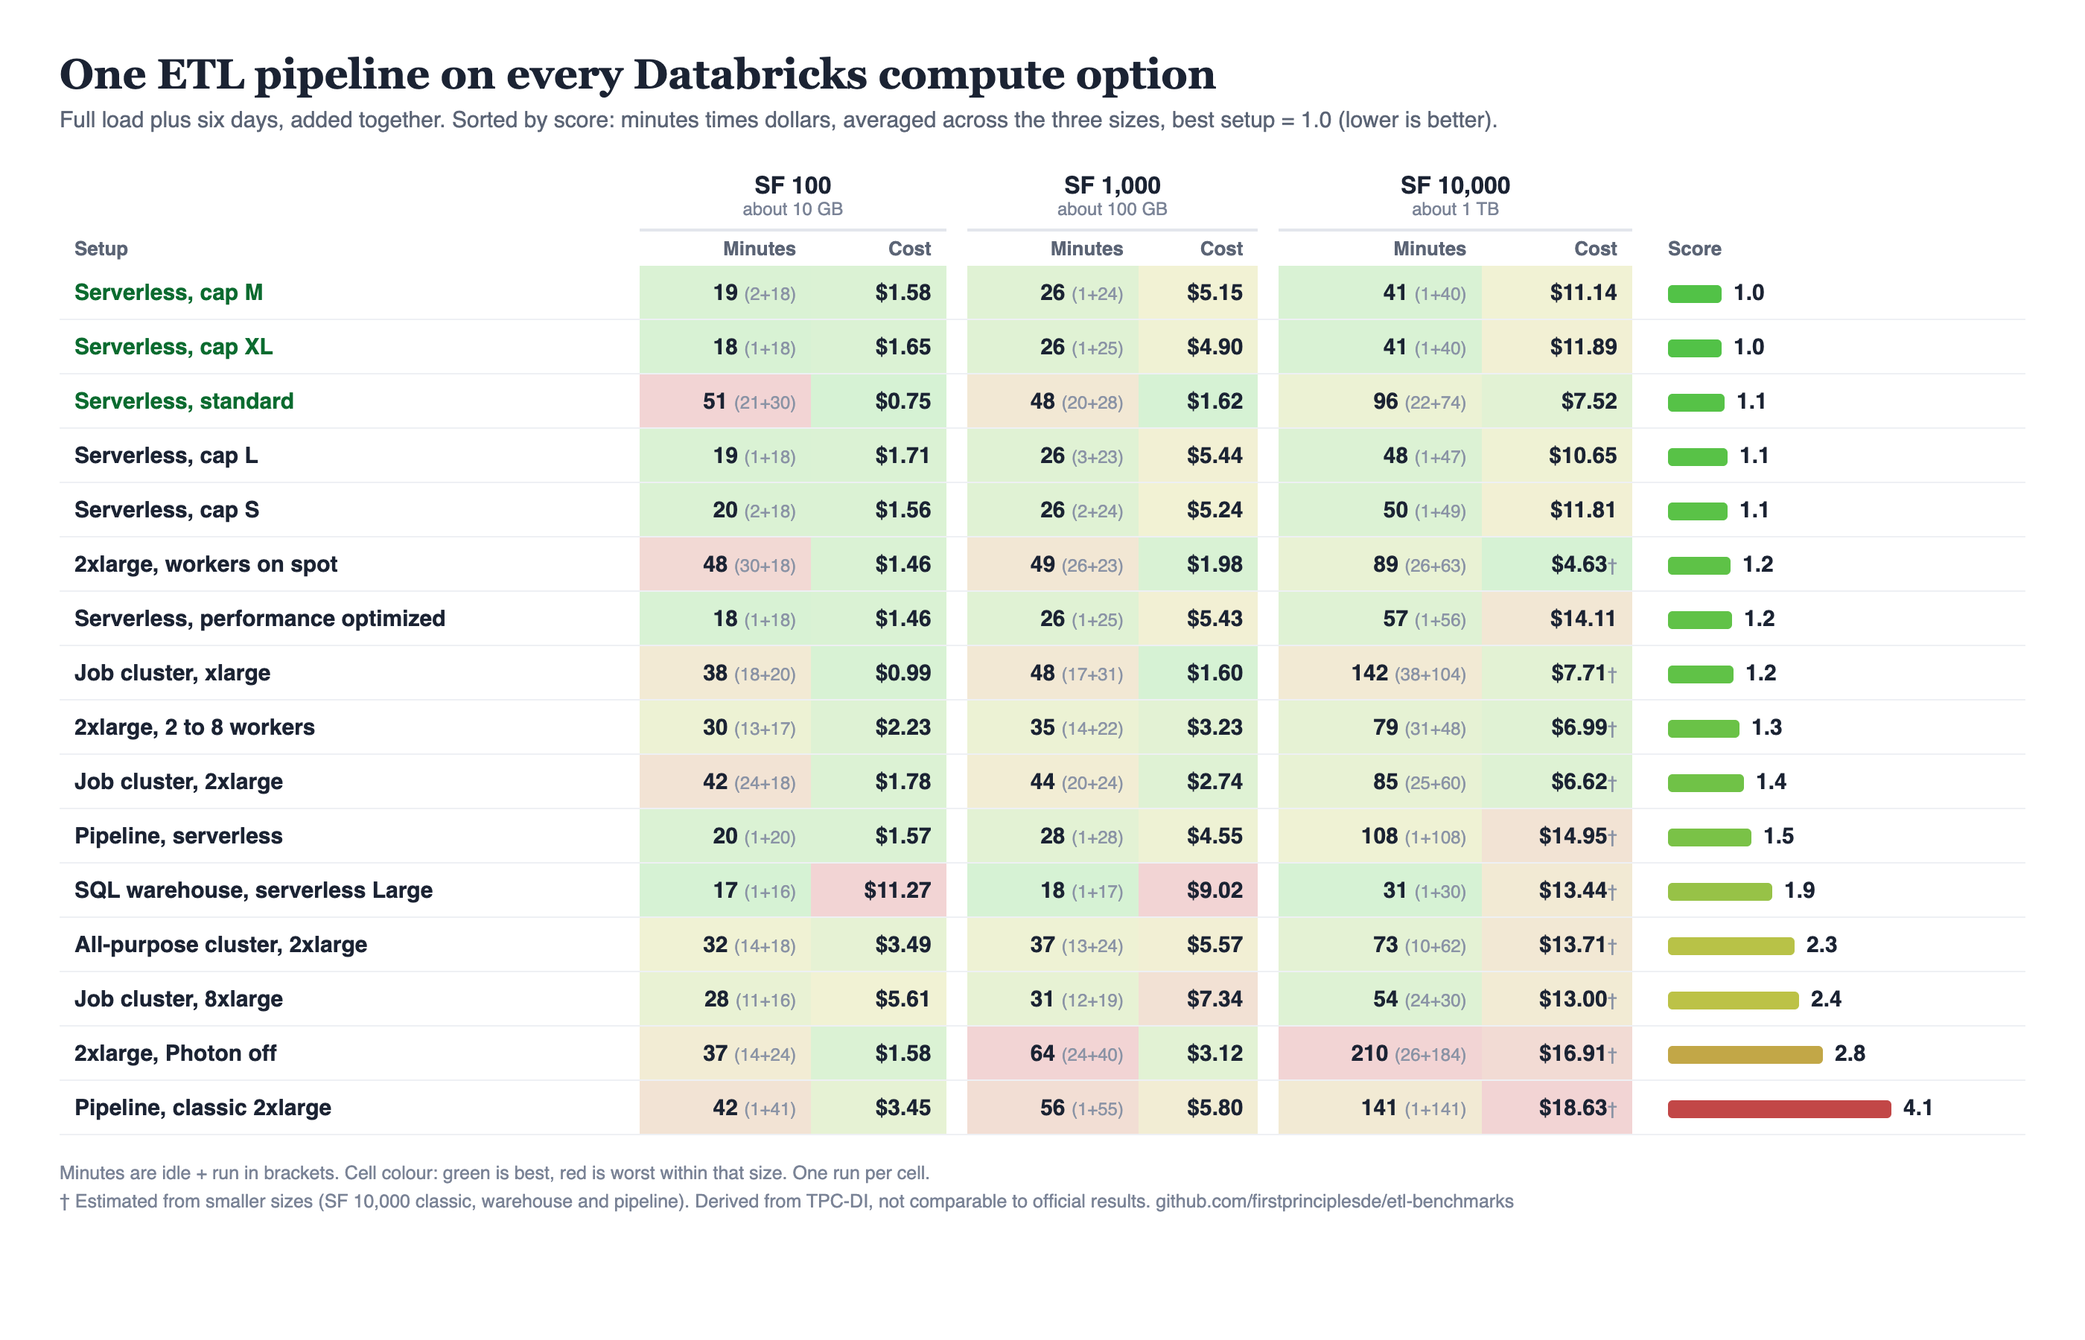
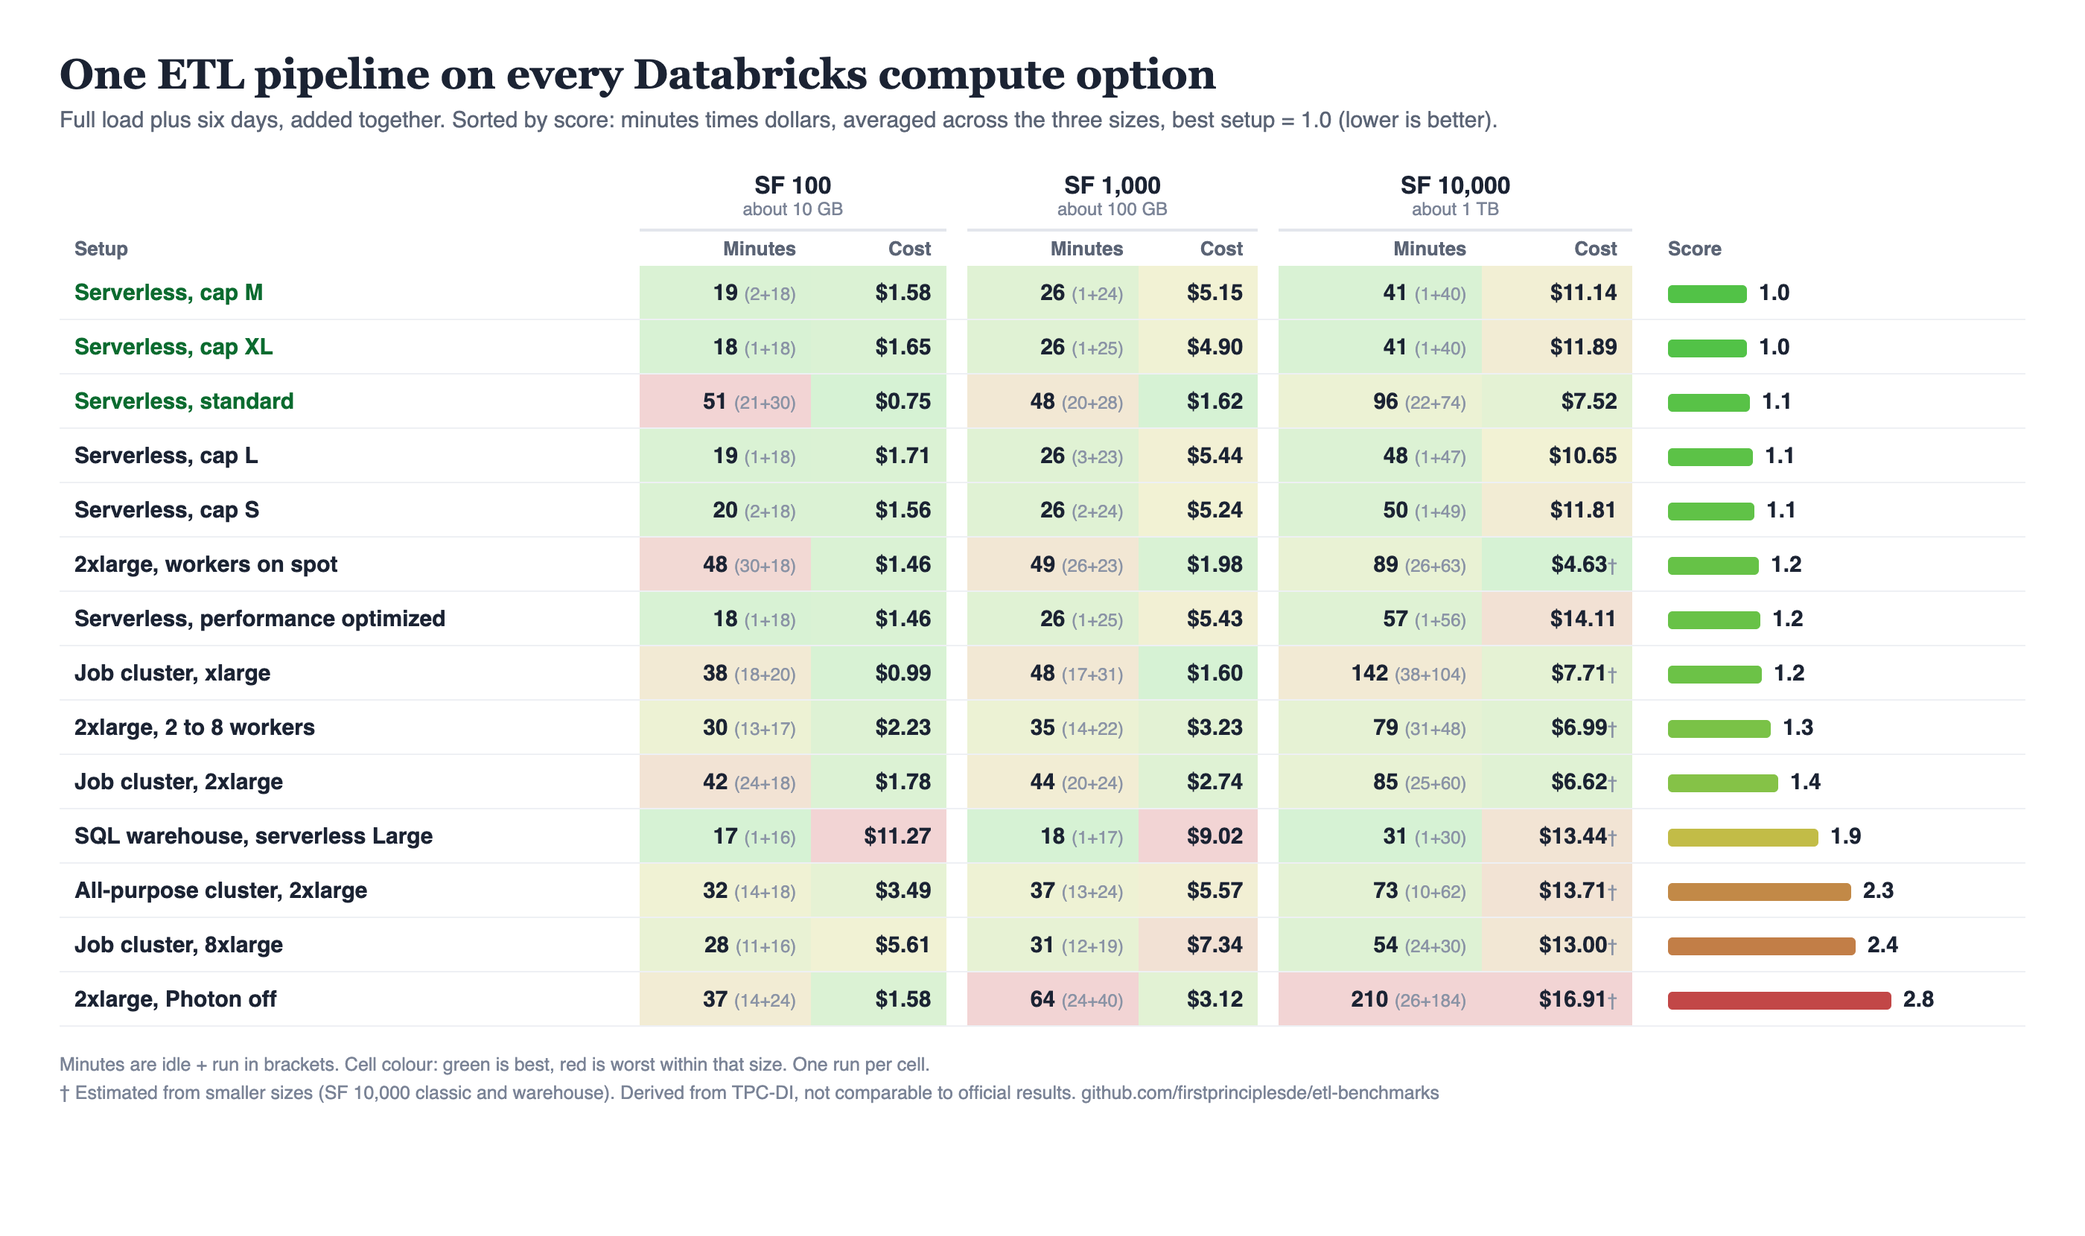
Remove the Spark Declarative Pipelines setups from the results

Changed region(s): [[0.0311, 0.0307, 0.9321, 0.9217]]

diff --git a/README.md b/README.md
@@ -1,6 +1,6 @@
 # etl-benchmarks
 
-**What one ETL pipeline costs, and how long it takes, on each Databricks compute option: 16 setups, 350 runs, a full load plus six days at three data sizes, so you can pick compute from numbers.**
+**What one ETL pipeline costs, and how long it takes, on each Databricks compute option: 14 setups, 294 runs, a full load plus six days at three data sizes, so you can pick compute from numbers.**
 
 These benchmarks are on Databricks. I'll be testing other platforms and tools next, and they'll land in this repo as they're done.
 
@@ -35,18 +35,16 @@ Each cell is the **full load plus six days** added together: idle minutes (waiti
 | Job cluster, xlarge | 18 + 20 = **38** min · **$0.99** | 17 + 31 = **48** min · **$1.60** | 38 + 104 = **142** min · **$7.71** † | **1.2** |
 | 2xlarge, 2 to 8 workers | 13 + 17 = **30** min · **$2.23** | 14 + 22 = **35** min · **$3.23** | 31 + 48 = **79** min · **$6.99** † | **1.3** |
 | Job cluster, 2xlarge | 24 + 18 = **42** min · **$1.78** | 20 + 24 = **44** min · **$2.74** | 25 + 60 = **85** min · **$6.62** † | **1.4** |
-| Pipeline, serverless | 1 + 20 = **20** min · **$1.57** | 1 + 28 = **28** min · **$4.55** | 1 + 108 = **108** min · **$14.95** † | **1.5** |
 | SQL warehouse, serverless Large | 1 + 16 = **17** min · **$11.27** | 1 + 17 = **18** min · **$9.02** | 1 + 30 = **31** min · **$13.44** † | **1.9** |
 | All-purpose cluster, 2xlarge | 14 + 18 = **32** min · **$3.49** | 13 + 24 = **37** min · **$5.57** | 10 + 62 = **73** min · **$13.71** † | **2.3** |
 | Job cluster, 8xlarge | 11 + 16 = **28** min · **$5.61** | 12 + 19 = **31** min · **$7.34** | 24 + 30 = **54** min · **$13.00** † | **2.4** |
 | 2xlarge, Photon off | 14 + 24 = **37** min · **$1.58** | 24 + 40 = **64** min · **$3.12** | 26 + 184 = **210** min · **$16.91** † | **2.8** |
-| Pipeline, classic 2xlarge | 1 + 41 = **42** min · **$3.45** | 1 + 55 = **56** min · **$5.80** | 1 + 141 = **141** min · **$18.63** † | **4.1** |
 
 </details>
 
 **Score** = minutes × dollars at each size, averaged across the three sizes (geometric mean), shown relative to the best setup (1.0). Lower is better, and the table is sorted by it. It rewards setups that are both fast and cheap, so a setup that wins on only one of the two lands in the middle.
 
-† SF 10,000 classic, warehouse and pipeline costs are estimates from smaller sizes, see [docs/cost-provenance.md](docs/cost-provenance.md). Per-setup detail (full load and an average day, separately): [results/final_table.md](results/final_table.md).
+† SF 10,000 classic and warehouse costs are estimates from smaller sizes, see [docs/cost-provenance.md](docs/cost-provenance.md). Per-setup detail (full load and an average day, separately): [results/final_table.md](results/final_table.md).
 
 > [!IMPORTANT]
 > One run per cell, so don't trust a two percent gap. AWS costs are node-hours times a price list, not Cost Explorer. Warehouse and all-purpose per-run costs are hourly billing divided between runs by time. This is derived from TPC-DI, not an official TPC-DI result, and is not comparable to published results.
@@ -59,7 +57,6 @@ Each cell is the **full load plus six days** added together: idle minutes (waiti
 | Job cluster (m8gd, 1 to 8 workers, driver on demand) | `jc_xlarge`, `jc_2xlarge`, `jc_8xlarge` |
 | 2xlarge experiments | `jc_2xlarge_spot`, `jc_2xlarge_nophoton`, `jc_2xlarge_min2`, `ap_2xlarge` (all-purpose) |
 | SQL warehouse | `wh_large` (serverless, Large) |
-| Pipelines | `sdp_serverless`, `sdp_2xlarge` (Spark Declarative Pipelines) |
 
 Two tests per setup and size: a **full load** (the original TPC-DI single batch, whole job with start-up) and **six days** in a row (each day its own cold run, so every day pays its own start-up). The warehouse's six days ran as dbt, with the SQL on the warehouse, because a warehouse can't run the Python streaming notebooks. Data sizes: SF 100 (about 10 GB), SF 1,000 (about 100 GB), SF 10,000 (about 1 TB). Region: AWS us-east-1.
 
@@ -117,7 +114,7 @@ Job keys are `full_<setup>` and `daily_<setup>`; run `daily_<setup>` six times f
 | [`docs/design.md`](docs/design.md) | How the benchmark was designed |
 | [`docs/cost-provenance.md`](docs/cost-provenance.md) | Where each cost number came from |
 | [`docs/how-it-was-built.md`](docs/how-it-was-built.md) | What was done, in order, and what was checked |
-| [`results/`](results/) | `final_table.md` and `per_run.csv` (350 runs) |
+| [`results/`](results/) | `final_table.md` and `per_run.csv` (294 runs) |
 | [`databricks/`](databricks/) | The bundle and the generator |
 | [`scripts/check_numbers.py`](scripts/check_numbers.py) | Recomputes the headline numbers from the results table |
 

diff --git a/results/final_table.md b/results/final_table.md
@@ -7,7 +7,6 @@ Minutes: idle (waiting), run (working), total. Dollars: Databricks list price pl
 | Config | Full: idle | run | total | DBX $ | AWS $ | Day (avg): idle | run | total | DBX $ | AWS $ | 6 days $ | Basis |
 |---|---|---|---|---|---|---|---|---|---|---|---|---|
 | wh_large | 0.0 | 2.0 | 2.0 | 3.87 | 0.00 | 0.1 | 2.4 | 2.5 | 1.23 | 0.00 | 7.40 | split |
-| sdp_serverless | 0.0 | 5.9 | 5.9 | 0.49 | 0.00 | 0.1 | 2.3 | 2.3 | 0.18 | 0.00 | 1.08 | split |
 | srv_optimized | 0.1 | 3.2 | 3.3 | 0.28 | 0.00 | 0.1 | 2.4 | 2.5 | 0.20 | 0.00 | 1.18 | exact |
 | srv_small | 0.1 | 3.3 | 3.3 | 0.27 | 0.00 | 0.3 | 2.4 | 2.6 | 0.22 | 0.00 | 1.29 | exact |
 | srv_medium | 0.1 | 3.1 | 3.2 | 0.27 | 0.00 | 0.3 | 2.4 | 2.7 | 0.22 | 0.00 | 1.31 | exact |
@@ -19,7 +18,6 @@ Minutes: idle (waiting), run (working), total. Dollars: Databricks list price pl
 | ap_2xlarge | 3.9 | 2.9 | 6.7 | 0.81 | 0.14 | 1.6 | 2.6 | 4.2 | 0.35 | 0.07 | 2.54 | split |
 | jc_2xlarge_nophoton | 3.9 | 7.0 | 10.8 | 0.20 | 0.41 | 1.6 | 2.8 | 4.4 | 0.04 | 0.12 | 0.97 | exact |
 | jc_xlarge | 7.9 | 4.2 | 12.1 | 0.17 | 0.09 | 1.7 | 2.7 | 4.4 | 0.06 | 0.06 | 0.73 | exact |
-| sdp_2xlarge | 0.0 | 11.3 | 11.3 | 0.45 | 0.17 | 0.1 | 5.0 | 5.0 | 0.35 | 0.12 | 2.83 | exact |
 | jc_2xlarge | 1.7 | 2.8 | 4.5 | 0.20 | 0.14 | 3.7 | 2.6 | 6.2 | 0.14 | 0.10 | 1.44 | exact |
 | jc_2xlarge_spot | 8.9 | 2.8 | 11.6 | 0.18 | 0.07 | 3.5 | 2.6 | 6.1 | 0.13 | 0.07 | 1.21 | exact |
 
@@ -29,7 +27,6 @@ Minutes: idle (waiting), run (working), total. Dollars: Databricks list price pl
 | Config | Full: idle | run | total | DBX $ | AWS $ | Day (avg): idle | run | total | DBX $ | AWS $ | 6 days $ | Basis |
 |---|---|---|---|---|---|---|---|---|---|---|---|---|
 | wh_large | 0.0 | 2.7 | 2.7 | 2.09 | 0.00 | 0.1 | 2.4 | 2.5 | 1.16 | 0.00 | 6.93 | split |
-| sdp_serverless | 0.0 | 12.8 | 12.8 | 2.26 | 0.00 | 0.1 | 2.5 | 2.6 | 0.38 | 0.00 | 2.29 | split |
 | srv_optimized | 0.1 | 7.5 | 7.5 | 2.44 | 0.00 | 0.1 | 2.9 | 3.0 | 0.50 | 0.00 | 2.99 | exact |
 | srv_small | 0.1 | 7.7 | 7.7 | 2.23 | 0.00 | 0.3 | 2.8 | 3.1 | 0.50 | 0.00 | 3.01 | exact |
 | srv_medium | 0.1 | 7.6 | 7.7 | 2.13 | 0.00 | 0.2 | 2.8 | 3.0 | 0.50 | 0.00 | 3.02 | exact |
@@ -41,7 +38,6 @@ Minutes: idle (waiting), run (working), total. Dollars: Databricks list price pl
 | ap_2xlarge | 1.4 | 7.9 | 9.2 | 1.12 | 0.45 | 2.0 | 2.6 | 4.7 | 0.58 | 0.08 | 4.00 | split |
 | jc_2xlarge_nophoton | 4.9 | 18.3 | 23.1 | 0.68 | 1.22 | 3.2 | 3.6 | 6.8 | 0.07 | 0.13 | 1.22 | exact |
 | jc_xlarge | 5.9 | 11.7 | 17.5 | 0.53 | 0.31 | 1.9 | 3.2 | 5.2 | 0.07 | 0.05 | 0.76 | exact |
-| sdp_2xlarge | 0.0 | 24.5 | 24.5 | 1.98 | 0.84 | 0.1 | 5.1 | 5.1 | 0.39 | 0.11 | 2.98 | exact |
 | jc_2xlarge | 4.9 | 8.2 | 13.1 | 0.83 | 0.44 | 2.6 | 2.6 | 5.2 | 0.13 | 0.12 | 1.47 | exact |
 | jc_2xlarge_spot | 4.9 | 7.4 | 12.3 | 0.57 | 0.18 | 3.5 | 2.6 | 6.1 | 0.13 | 0.07 | 1.23 | exact |
 
@@ -51,7 +47,6 @@ Minutes: idle (waiting), run (working), total. Dollars: Databricks list price pl
 | Config | Full: idle | run | total | DBX $ | AWS $ | Day (avg): idle | run | total | DBX $ | AWS $ | 6 days $ | Basis |
 |---|---|---|---|---|---|---|---|---|---|---|---|---|
 | wh_large | 0.0 | 12.2 | 12.2 | 4.50 | 0.00 | 0.1 | 3.0 | 3.1 | 1.49 | 0.00 | 8.94 | estimated |
-| sdp_serverless | 0.0 | 78.4 | 78.4 | 11.54 | 0.00 | 0.1 | 4.9 | 4.9 | 0.57 | 0.00 | 3.41 | estimated |
 | srv_optimized | 0.1 | 28.0 | 28.0 | 6.98 | 0.00 | 0.1 | 4.7 | 4.7 | 1.19 | 0.00 | 7.13 | exact |
 | srv_small | 0.1 | 15.9 | 16.0 | 4.50 | 0.00 | 0.1 | 5.5 | 5.6 | 1.22 | 0.00 | 7.31 | exact |
 | srv_medium | 0.1 | 12.4 | 12.5 | 4.24 | 0.00 | 0.1 | 4.6 | 4.6 | 1.15 | 0.00 | 6.90 | exact |
@@ -63,6 +58,5 @@ Minutes: idle (waiting), run (working), total. Dollars: Databricks list price pl
 | ap_2xlarge | 1.7 | 26.5 | 28.2 | 6.04 | 1.83 | 1.4 | 6.0 | 7.3 | 0.83 | 0.14 | 5.84 | estimated |
 | jc_2xlarge_nophoton | 5.4 | 123.8 | 129.2 | 4.50 | 8.37 | 3.5 | 10.0 | 13.4 | 0.21 | 0.47 | 4.04 | estimated |
 | jc_xlarge | 5.9 | 47.9 | 53.8 | 2.85 | 1.60 | 5.3 | 9.4 | 14.7 | 0.30 | 0.24 | 3.26 | estimated |
-| sdp_2xlarge | 0.0 | 58.6 | 58.6 | 8.07 | 3.35 | 0.1 | 13.7 | 13.8 | 0.92 | 0.28 | 7.21 | estimated |
 | jc_2xlarge | 4.9 | 26.4 | 31.2 | 2.54 | 1.43 | 3.4 | 5.6 | 9.0 | 0.24 | 0.20 | 2.65 | estimated |
 | jc_2xlarge_spot | 7.4 | 26.0 | 33.4 | 2.34 | 0.58 | 3.1 | 6.1 | 9.1 | 0.18 | 0.10 | 1.71 | estimated |

diff --git a/docs/cost-provenance.md b/docs/cost-provenance.md
@@ -6,9 +6,8 @@ per_run.csv was built when billing was complete up to 2026-11-22 01:10 UTC (a ru
 | Rows | Source |
 |---|---|
 | basis=exact (SF 100 and 1,000 serverless jobs, classic job clusters, the serverless file-drop task; SF 10,000 serverless jobs: 42 rows) | DBUs summed from `system.billing.usage` by `job_run_id`, times `system.billing.list_prices` (`pricing.default`, joined on SKU and the usage end time inside the price window). Not estimated. |
-| sdp_2xlarge (classic pipeline) | read from the table by the pipeline's cluster id (`dlt-execution-*`), assigned to the run whose window holds the cluster's first node minute |
-| basis=split (wh_large, ap_2xlarge at SF 100 and 1,000; a small part of sdp_serverless) | read from hourly `system.billing.usage` rows by warehouse or cluster id, divided between runs by overlap seconds (tail 5 min warehouse, 10 min all-purpose). Hourly totals are right; per-run values are allocations (a run can absorb idle minutes of its hour, e.g. wh_large SF 100 full load $3.87 for 2 min) |
-| SF 10,000 basis=estimated (59 rows: classic jc_*, ap_2xlarge, sdp_2xlarge, sdp_serverless, wh_large six-day runs) | NOT in billing yet. Classic and all-purpose: node-minutes (`system.compute.node_timeline`) times a measured Databricks $ per node-minute from the same config's SF 100 and 1,000 runs. Warehouse and serverless pipelines: run minutes times a measured $ per minute from SF 100 and 1,000. These rates may understate DBU use at SF 10,000. |
+| basis=split (wh_large, ap_2xlarge at SF 100 and 1,000) | read from hourly `system.billing.usage` rows by warehouse or cluster id, divided between runs by overlap seconds (tail 5 min warehouse, 10 min all-purpose). Hourly totals are right; per-run values are allocations (a run can absorb idle minutes of its hour, e.g. wh_large SF 100 full load $3.87 for 2 min) |
+| SF 10,000 basis=estimated (45 rows: classic jc_*, ap_2xlarge, wh_large six-day runs) | NOT in billing yet. Classic and all-purpose: node-minutes (`system.compute.node_timeline`) times a measured Databricks $ per node-minute from the same config's SF 100 and 1,000 runs. Warehouse and serverless pipelines: run minutes times a measured $ per minute from SF 100 and 1,000. These rates may understate DBU use at SF 10,000. |
 | SF 10,000 basis=extrapolated (jc_2xlarge_min2 and jc_8xlarge, 10 rows) | compute tables had no node time yet; the config's SF 1,000 cost scaled by run-minute ratio; only full load and day 1 were run, days 2 to 6 repeat day 1. jc_8xlarge is the weakest number. |
 
 Not in any per-run cost: setup and teardown jobs (only in workspace_costs.txt).
@@ -19,5 +18,5 @@ Every row, including exact ones: node time times an EC2 on-demand price list, NO
 ## What it means for the conclusions
 - Solid: SF 100 and 1,000 Databricks costs (read from system tables); all serverless job results at every size, including SF 10,000.
 - Allocated but right in total: warehouse and all-purpose per-run costs at SF 100 and 1,000 (the combined table sums seven runs, hourly totals are right).
-- Estimates: every SF 10,000 classic, warehouse and pipeline cost, and all EC2 costs. The SF 10,000 rates were measured at smaller sizes and may understate, so "spot on a 2xlarge is the cheapest at SF 10,000" and the Photon-off 2.6x at SF 10,000 are the weakest claims; the serverless numbers they are compared with are exact.
+- Estimates: every SF 10,000 classic and warehouse cost, and all EC2 costs. The SF 10,000 rates were measured at smaller sizes and may understate, so "spot on a 2xlarge is the cheapest at SF 10,000" and the Photon-off 2.6x at SF 10,000 are the weakest claims; the serverless numbers they are compared with are exact.
 - These estimates were not refreshed once billing landed.

diff --git a/docs/conclusions.md b/docs/conclusions.md
@@ -24,13 +24,12 @@ Cost is Databricks plus AWS list price, one combined number per size: the full l
 - **Cheapest: serverless standard, or close to it at every size.** You don't have to size or tune anything. SF 100: $0.75, the lowest. SF 1,000: $1.62, level with the cheapest classic job ($1.60). SF 10,000: $7.52, a bit above a small cluster on spot ($4.63, estimated).
 - **Fast with a cost limit: the serverless size caps** (S to XL). Same speed as performance optimized at SF 100 and 1,000, and cheaper than optimized at SF 10,000 (medium 40.7 min, $11.14 vs 56.9 min, $14.11).
 - **Fastest regardless of price: the SQL warehouse**, at every size.
-- **Never worth it:** all-purpose for scheduled jobs, Photon off, an 8xlarge job cluster, classic pipelines.
+- **Never worth it:** all-purpose for scheduled jobs, Photon off, and an 8xlarge job cluster.
 
 ### 2. Serverless
 - **Standard:** cheapest, but about 40% of its time is waiting for compute (19.5 of 48.0 min at SF 1,000, about 2 to 3.4 min per run).
 - **Performance optimized:** about 2x faster than standard for 3.4x the cost at SF 1,000 (25.6 vs 48.0 min, $5.43 vs $1.62); the priciest serverless job at SF 10,000.
 - **Size caps:** the cap jobs run in performance optimized mode (the job page shows Performance optimized: On, see docs/screenshots), so they start as fast as optimized: idle 0.7 to 2.5 min over seven runs, against 21 to 22.5 for standard. The compute object holds only the size. A cap limits how far the executors can scale (a Beta feature), not the total cost.
-- **Pipelines:** serverless pipelines cost about the same as optimized jobs, and are 2x slower at SF 10,000.
 
 ### 3. Classic job clusters
 - **Spot:** 18 to 30% cheaper in total, 4 to 14% more time (SF 100 +6.0 min, SF 1,000 +4.6, SF 10,000 +3.3). The saving is on the AWS part only. If cost is the goal on classic, use spot.
@@ -41,7 +40,7 @@ Cost is Databricks plus AWS list price, one combined number per size: the full l
 
 ### 4. SQL warehouse
 - Fastest everywhere: 17.0 / 17.7 / 30.8 min at SF 100 / 1,000 / 10,000.
-- Also the most expensive: the priciest setup at SF 100 ($11.27) and SF 1,000 ($9.02), and among the priciest at SF 10,000 ($13.44, behind optimized, all-purpose, no-Photon and classic pipelines at that size).
+- Also the most expensive: the priciest setup at SF 100 ($11.27) and SF 1,000 ($9.02), and among the priciest at SF 10,000 ($13.44, behind optimized, all-purpose and no-Photon at that size).
 - Premium shrinks with size: 15x standard at SF 100 ($11.27 vs $0.75), 1.8x at SF 10,000 ($13.44 vs $7.52), about level with optimized ($14.11).
 - Its six-day load ran as dbt.
 

diff --git a/docs/design.md b/docs/design.md
@@ -32,8 +32,6 @@ Compute is the main axis. Engine is the second, because how you build the ETL de
 | 12 | `jc_2xlarge_min2` | SQL notebooks (job) | Same as 8, 2 to 8 workers |
 | 13 | `ap_2xlarge` | SQL notebooks (job) | All-purpose cluster, same shape as 8 |
 | 14 | `wh_large` | Full load: SQL notebooks. Daily: dbt | SQL warehouse, serverless Large |
-| 15 | `sdp_serverless` | Spark Declarative Pipelines (DLT) | Serverless pipeline |
-| 16 | `sdp_2xlarge` | Spark Declarative Pipelines (DLT) | Classic pipeline, m8gd.2xlarge, 1 to 8 workers, Photon |
 
 The warehouse can't run the daily Python streaming notebooks, and Shannon's repo only wires dbt for the daily mode. So the warehouse gets the engine it would really use for each test.
 
@@ -45,14 +43,14 @@ All the code comes from [shannon-barrow/databricks-tpc-di](https://github.com/sh
 2. **Same data and code** per engine. DBR 18.x everywhere, Photon on everywhere except config 11, on-demand everywhere except config 10, and the driver the same type as the workers.
 3. **Idle cost counts.** A warehouse bills until auto-stop, and an all-purpose cluster until auto-termination. Real daily jobs pay that tail, so cost includes it. Auto-stop is 5 min on the warehouse and 10 min on the cluster.
 4. **One run per test.** Single runs, stated plainly in the write-up.
-5. **No overlap on classic.** Classic configs run one at a time (128 vCPU quota). Serverless, warehouse and SDP-serverless runs go in parallel, since they don't share compute.
+5. **No overlap on classic.** Classic configs run one at a time (128 vCPU quota). Serverless and warehouse runs go in parallel, since they don't share compute.
 6. **Untimed:** data generation, the daily-test setup clone, and cleanup.
 
 ## 4. What we measure
 
 | Metric | Source |
 |---|---|
-| Total time, start-up, processing | Jobs API task timings (the pipeline task for SDP) |
+| Total time, start-up, processing | Jobs API task timings |
 | DBUs | `system.billing.usage` by job run, pipeline or warehouse, plus the idle tail |
 | Databricks $ | DBUs × `system.billing.list_prices` |
 | AWS $ (classic only) | Node-hours from cluster events × EC2 on-demand price (spot price for config 10) |
